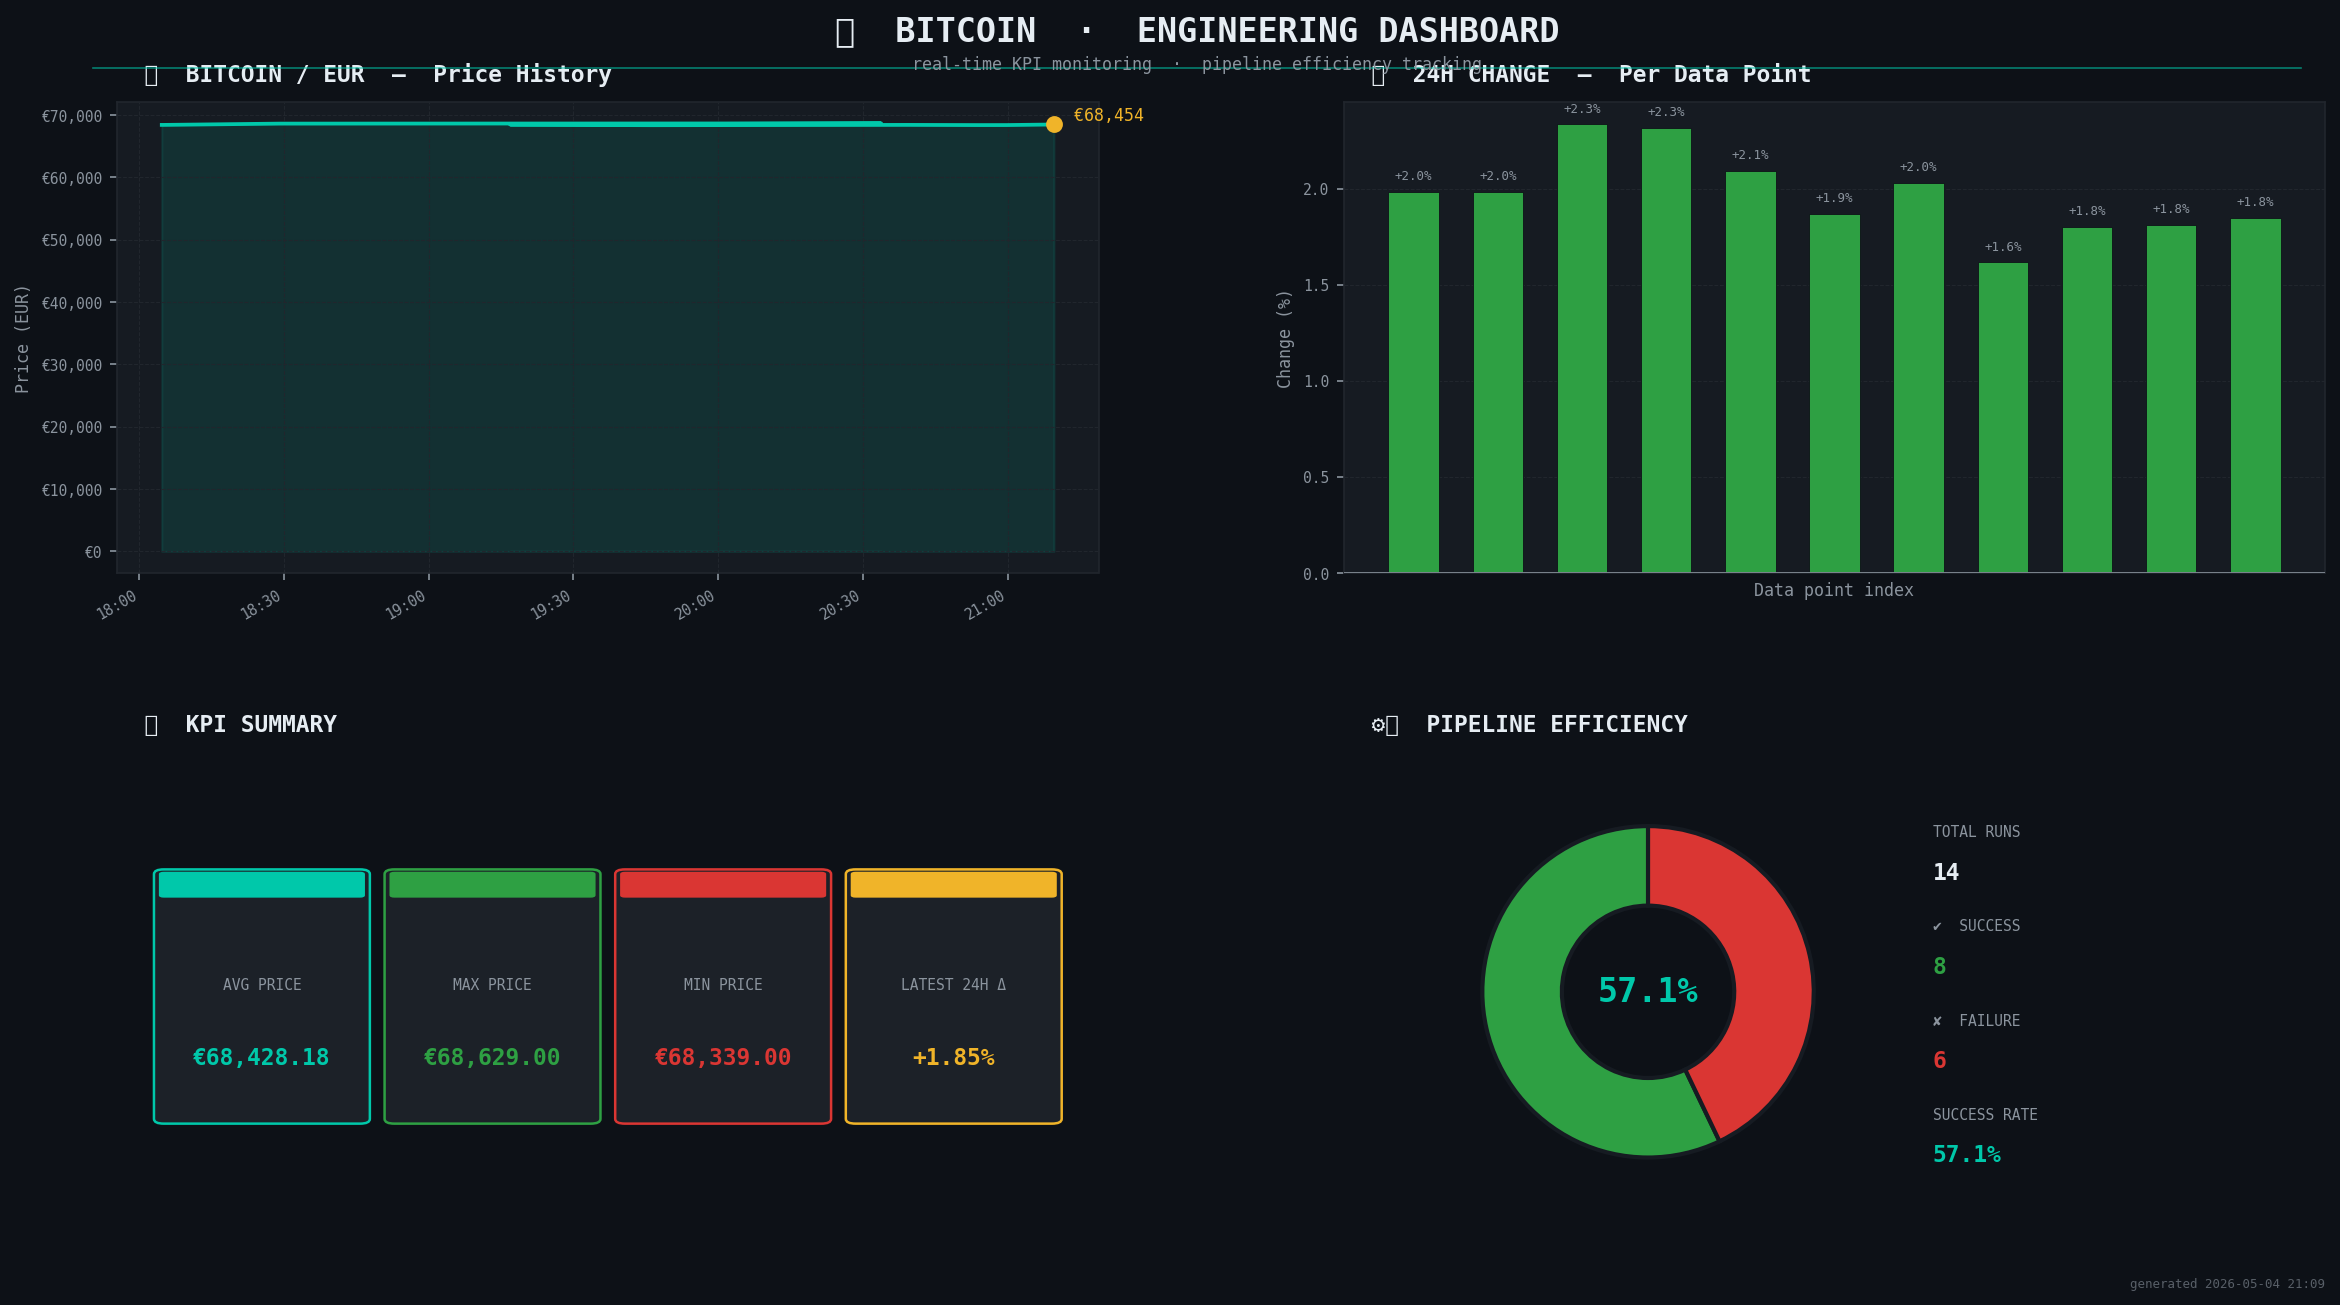
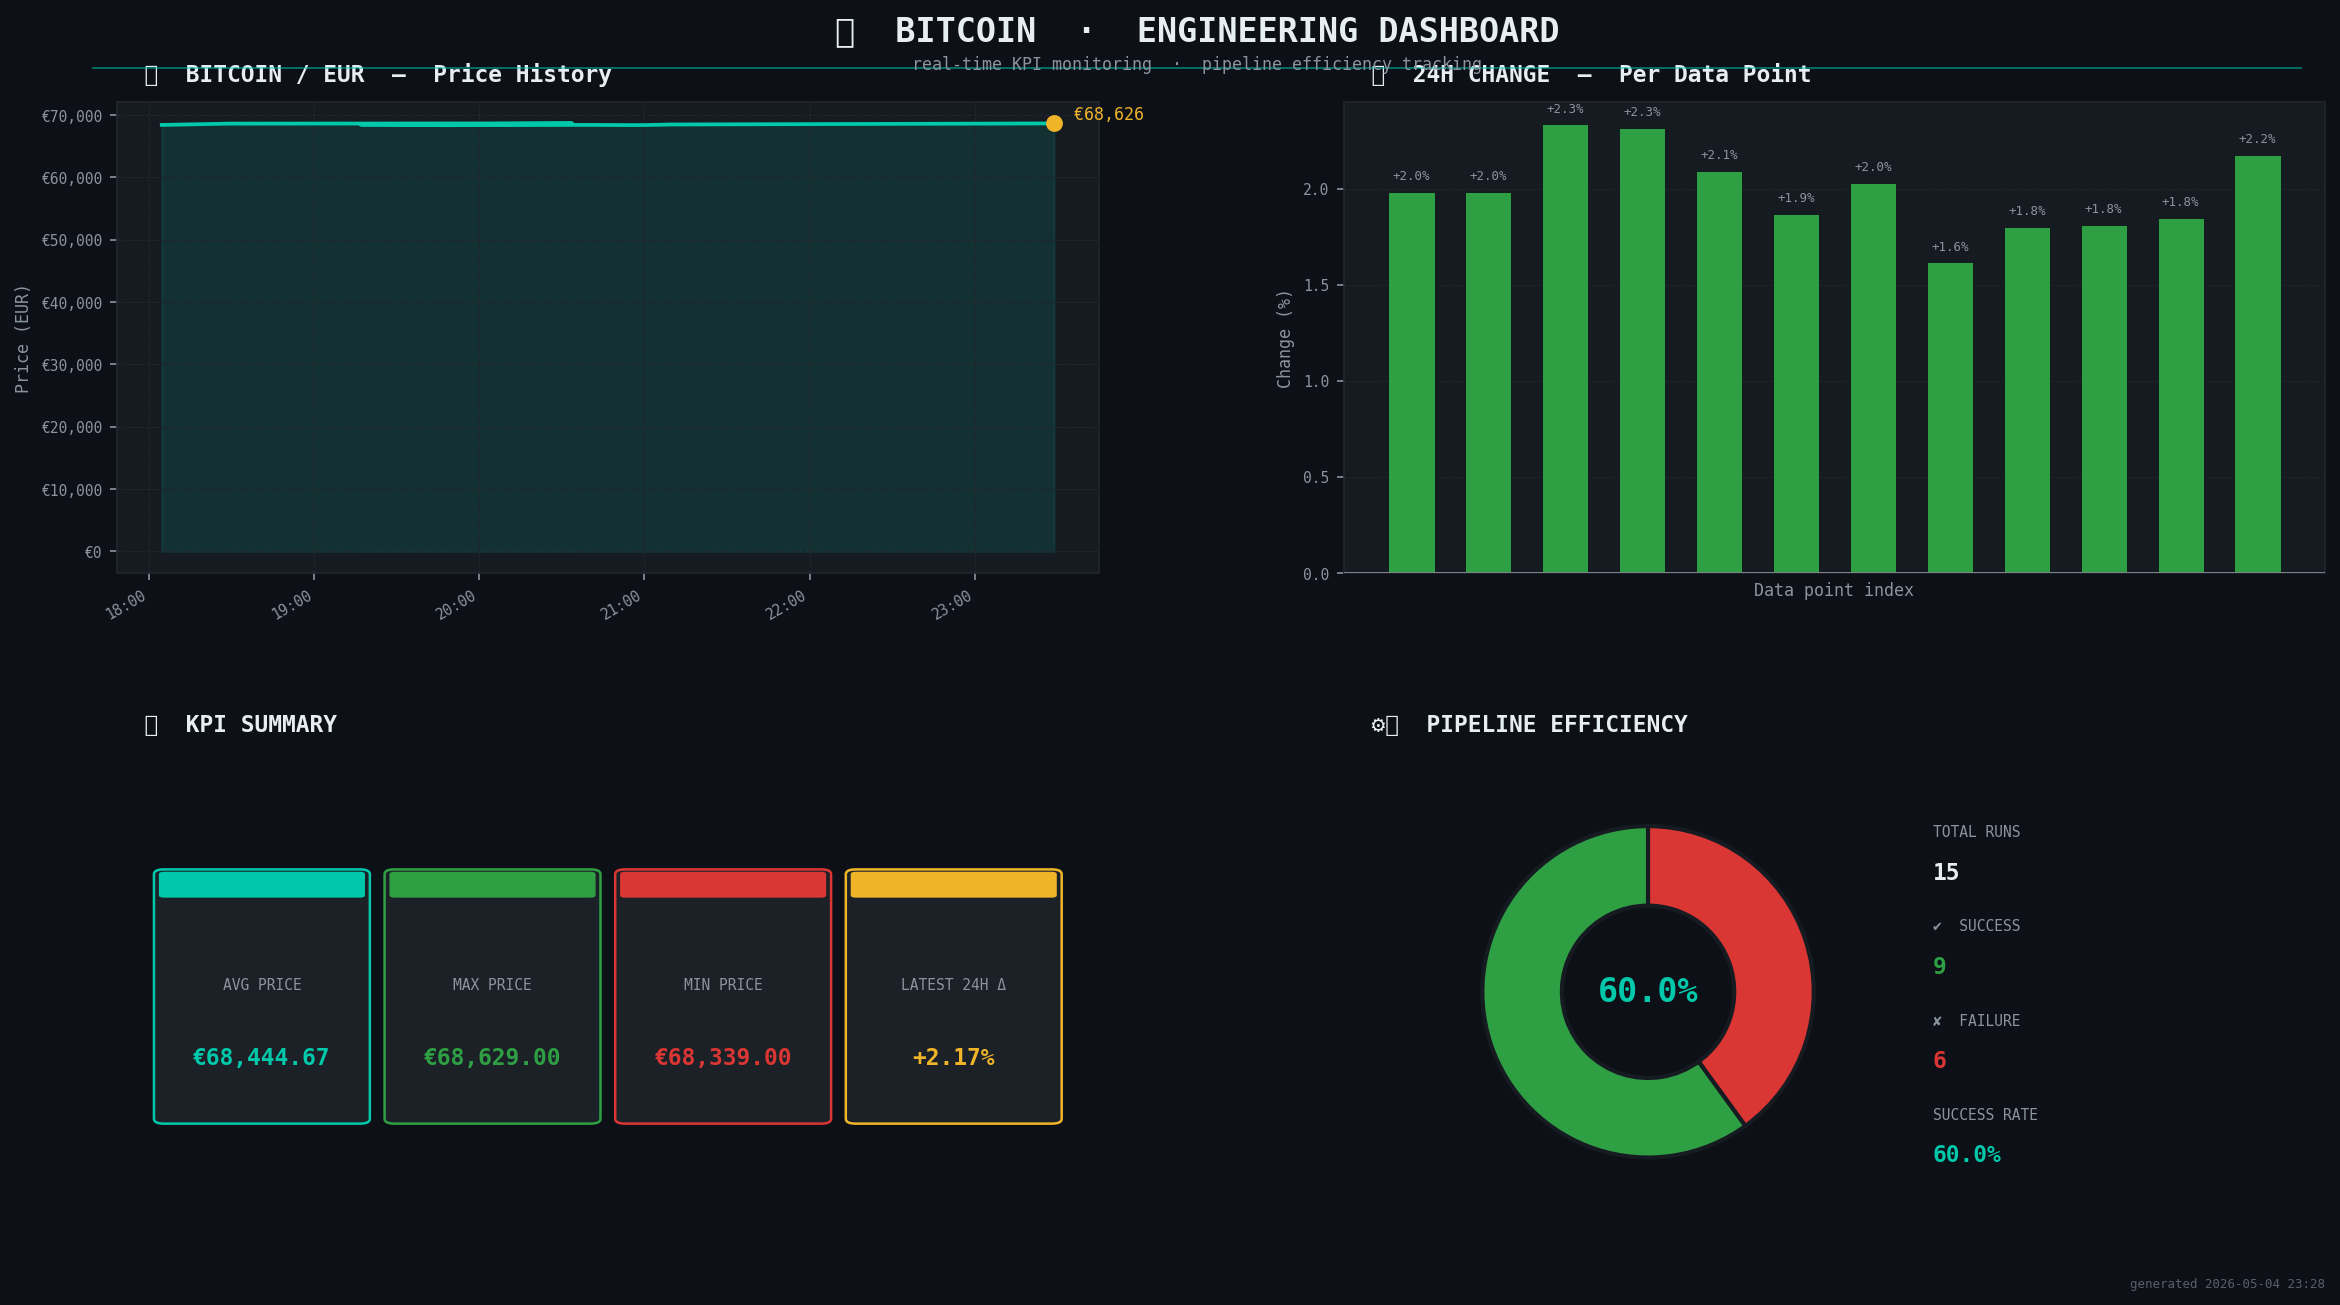
unit test fix

diff --git a/tests/test_build_kpi.py b/tests/test_build_kpi.py
@@ -14,7 +14,7 @@ def test_build_kpi():
 
     total = len(df)
     success = len(df[df["status"] == "success"])
-    rate = (success/total) * 100
+    rate = compute_build_kpis("data/build_log.csv")
 
     assert total == 3
     assert success == 2